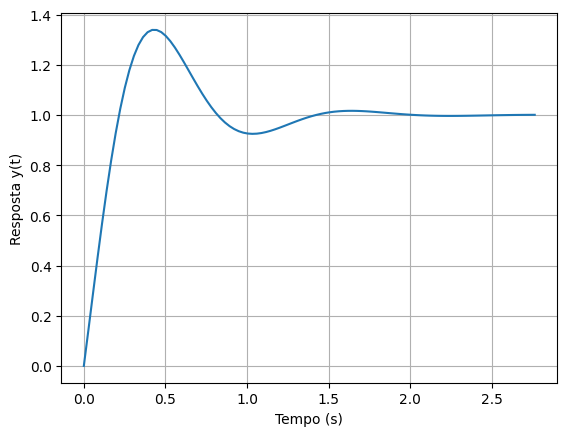
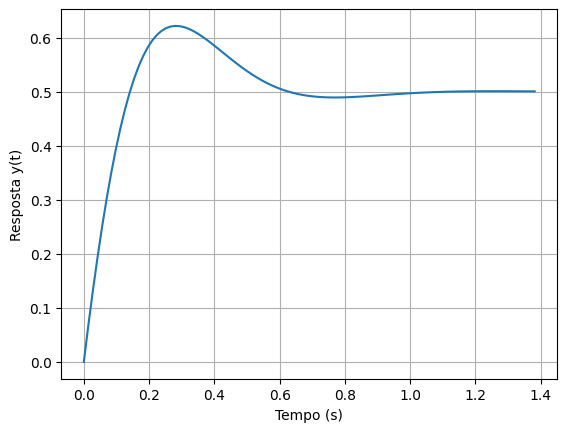
correções finais para entrega

diff --git a/main.tex b/main.tex
@@ -947,7 +947,7 @@ Projetando o sistema com controlador:
     \caption{Sistema com Controlador.} % Legenda para a figura
     \label{fig:diagrama_blocos_controlador} % Rótulo para referências cruzadas
 \end{figure}
-Em que T(s) é a função de transferência do nosso sistema em malha fechada com realimentação unitária. Utilizamos T(s) (ou seja, uma abordagem que nos permita influenciar o erro de estado estacionário para um valor diferente de zero), porque, de outro modo, a função de transferência de malha aberta G(s), obtida na questão 2.1, não permitiria um erro de estado estacionário diferente de zero. Isso ocorre porque G(s) possui duas integrações puras no caminho direto da malha, caracterizando-a como um sistema do Tipo 2.
+Em que T(s) é a função de transferência do nosso sistema ($G(s)$) em malha fechada com realimentação unitária. Utilizamos T(s) (ou seja, uma abordagem que nos permita influenciar o erro de estado estacionário para um valor diferente de zero), porque, de outro modo, a função de transferência de malha aberta G(s), obtida na questão 2.1, não permitiria um erro de estado estacionário diferente de zero. Isso ocorre porque G(s) possui duas integrações puras no caminho direto da malha, caracterizando-a como um sistema do Tipo 2.
 \\\\
 Explicado o motivo de usarmos $T(s)$ como a função de transferência da planta no cálculo do erro de estado estacionário, temos a expressão para $T(s)$ como:
 \[
@@ -1011,13 +1011,22 @@ G_{c}(s) = \frac{s + 0.05}{s + 0.0055}
 
 Para simular e analisar a resposta ao degrau do sistema, consideraremos as configurações não compensada (sem controlador) e compensada (com o controlador de atraso projetado).
 \\\\
-A função de transferência de malha fechada do sistema não compensado, com realimentação unitária, é dada por $T(s)$:
+Conforme mencionado, para a análise e o projeto de compensação, estamos considerando T(s) como a representação do nosso sistema. Assim, o sistema não compensado terá a seguinte configuração:
+
+\begin{figure}[H] % [h!] tenta colocar a figura "aqui" (here)
+    \centering % Centraliza a imagem
+    \includegraphics[width=0.8\textwidth]{imagens/Diagrama de Blocos-Página-2.drawio.pdf} % Inclui o PDF como imagem
+    \caption{Sistema T(s) sem Controlador.} % Legenda para a figura
+    \label{fig:diagrama_blocos_controlador} % Rótulo para referências cruzadas
+\end{figure}
+
+A função de transferência de malha aberta do sistema não compensado é dada por $T(s)$:
 \[
     T(s) = \frac{5s + 33.33}{s^2 + 5s+33.33}
 \]
-Para uma entrada degrau unitário, $U(s)= \frac{1}{s}$, a resposta no domínio de Laplace é:
+Para uma entrada degrau unitário, $U(s)= \frac{1}{s}$, no sistema não compensado de malha fechada com feedback unitário, a resposta no domínio de Laplace é:
 \[
-    Y(s) = U(s) \cdot T(s) =\frac{5s + 33.33}{s^2 + 5s+33.33}
+    Y(s) = U(s) \cdot \frac{T(s)}{1 + T(s)} =\frac{1}{s}\cdot\frac{5s + 33.33}{s^2 + 10s+66.66}
 \]
 
 A seguir, é apresentada a resposta ao degrau do sistema não compensado: 
@@ -1028,7 +1037,7 @@ A seguir, é apresentada a resposta ao degrau do sistema não compensado:
     \label{fig:resposta-degrau-sem-controlador}
 \end{figure}
 
-Observa-se que a resposta ao degrau do sistema não compensado se estabiliza em 1. Isso indica que o erro de estado estacionário é zero para entrada degrau unitário.
+Observa-se que a resposta ao degrau do sistema não compensado se estabiliza em 0.5. Isso indica que o erro de estado estacionário é de 50\% ($e_{ss} = 1 - 0.5 = 0.5$) para entrada degrau unitário.
 \\\\
 Para simular o sistema compensado, aplicando o Lag Compensator $G_c(s) = \frac{s + 0.05}{s + 0.0055}$em cascata com a planta e realimentação unitária, a função de transferência de malha fechada é dada por:
 \[
@@ -1061,26 +1070,28 @@ plt.plot(t, y)
 plt.show()
 \end{lstlisting}
 \begin{lstlisting}[caption = {Código da Questão 3.3}]
-G_s_feedback = ctr.feedback(G_s, 1)
-print(G_s_feedback)
+T_s = ctr.feedback(G_s, 1)
+T_s_feedback = ctr.feedback(T_s, 1)
+print(T_s_feedback)
 
-polos_G_s_feedback = ctr.poles(G_s_feedback)  
+polos_G_s_feedback = ctr.poles(T_s_feedback)  
 print(f'\nPolos do feedback de G_s(s): {polos_G_s_feedback}')
 
-t, y = ctr.step_response(G_s_feedback)
+t, y = ctr.step_response(T_s_feedback)
 plt.plot(t, y)
 plt.xlabel('Tempo (s)')
 plt.ylabel('Resposta y(t)')
 plt.grid()
 plt.show()
-ctr.step_info(G_s_feedback)
+ctr.step_info(T_s_feedback)
 \end{lstlisting}
 \begin{lstlisting}[caption = {Código da Questão 3.3}]
 G_c = ctr.tf([1, 0.05], [1, 0.005555])
 
-G = G_s_feedback * G_c
+G = T_s * G_c
 
 G_feedback = ctr.feedback(G, 1)
+
 print(G_feedback)
 
 t, y = ctr.step_response(G_feedback)

diff --git a/codigos/resposta-funcao-transferencia.py b/codigos/resposta-funcao-transferencia.py
@@ -1,0 +1,28 @@
+import control as ct
+import matplotlib.pyplot as plt
+import numpy as np
+
+
+# A funcao de transferencia calculada foi T(s) = (5s + 33.33) / s^2
+
+#coeficientes
+num = [5, 100/3]
+den = [1, 0, 0]
+
+T = ct.tf(num, den)
+
+#print(T)
+
+#escolhido por padrao da .step_response degrau de amplitude 1.
+t, y = ct.step_response(T)
+
+
+plt.figure(figsize=(10, 6))
+plt.plot(t, y, linewidth=2, label='Resposta ao Degrau')
+
+plt.title('Resposta ao Degrau do Sistema Linearizado', fontsize=16)
+plt.xlabel('Tempo (s)', fontsize=12)
+plt.ylabel('Posicao Lateral ($x_2$)', fontsize=12)
+plt.grid(True)
+plt.legend()
+plt.show()

diff --git a/codigos/mapa-polo-zero.py b/codigos/mapa-polo-zero.py
@@ -1,0 +1,17 @@
+import control as ct
+import numpy as np
+import matplotlib.pyplot as plt
+
+#coeficientes da transfer function
+num = [5, 33.33]
+den = [1, 0, 0]
+
+sys = ct.TransferFunction(num, den)
+print(sys)
+
+plt.figure(figsize=(8,6))
+
+ct.pzmap(sys, plot=True, title='Mapa Polo-Zero')
+plt.xlabel('Eixo Real ($\sigma$)')
+plt.ylabel('Eixo Imaginario ($j\omega$)')
+plt.show()
